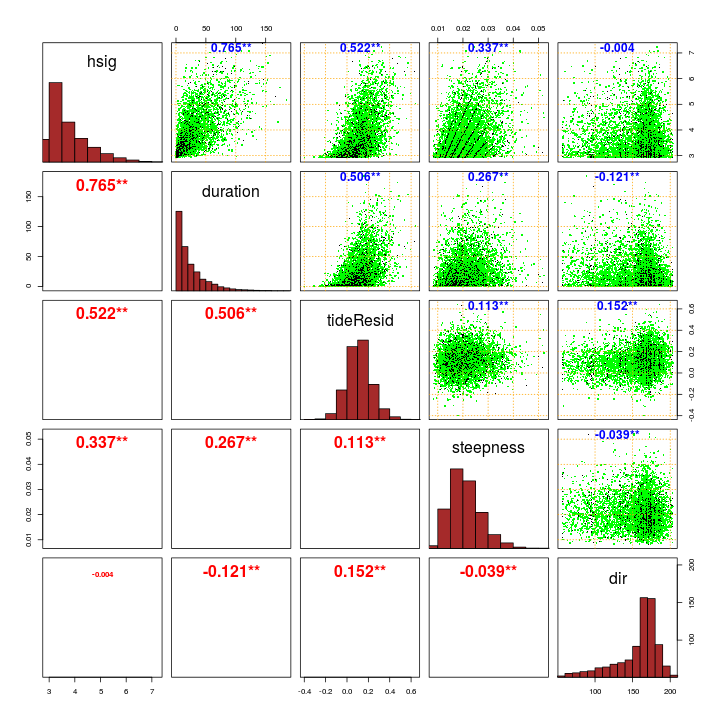
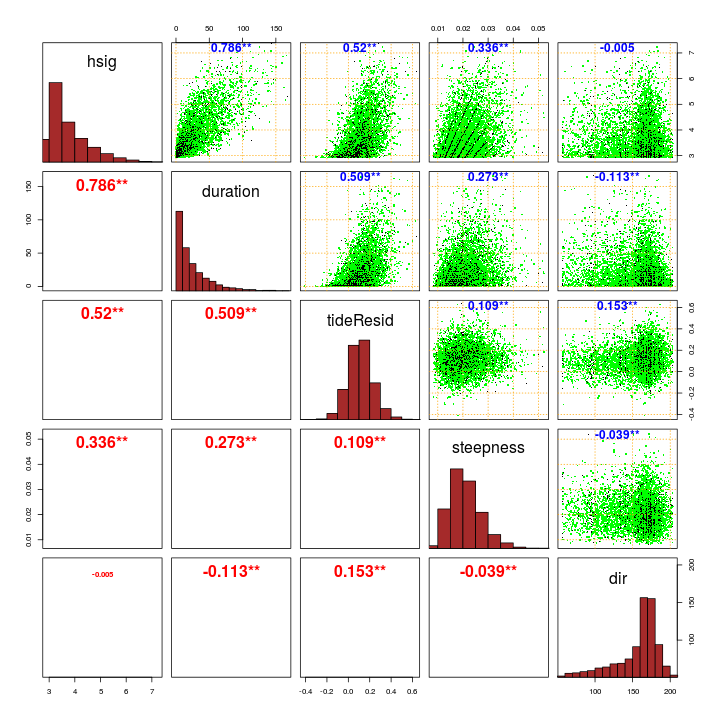
different copula

diff --git a/Analysis/statistical_model_fit/statistical_model_vine_copula.md b/Analysis/statistical_model_fit/statistical_model_vine_copula.md
@@ -58,66 +58,10 @@ perturbations to the data, to check the impact of ties and data discretization.
 # Need to re-load packages, as R does not automatically do this when re-loading
 # a session
 library(evmix)
-```
-
-```
-## Loading required package: MASS
-```
-
-```
-## Loading required package: splines
-```
-
-```
-## Loading required package: gsl
-```
-
-```
-## Loading required package: SparseM
-```
-
-```
-## 
-## Attaching package: 'SparseM'
-```
-
-```
-## The following object is masked from 'package:base':
-## 
-##     backsolve
-```
-
-```r
 library(logspline)
 library(CDVine) # Used to set structure of C-Vine copula
-```
-
-```
-## The CDVine package is no longer developed actively.
-## Please consider using the more general VineCopula package
-## (see https://CRAN.R-project.org/package=VineCopula),
-## which extends and improves the functionality of CDVine.
-```
-
-```r
 library(VineCopula) # Main copula fitting routine. 
-```
 
-```
-## 
-## Attaching package: 'VineCopula'
-```
-
-```
-## The following objects are masked from 'package:CDVine':
-## 
-##     BiCopCDF, BiCopChiPlot, BiCopEst, BiCopHfunc, BiCopIndTest,
-##     BiCopKPlot, BiCopLambda, BiCopMetaContour, BiCopName,
-##     BiCopPar2TailDep, BiCopPar2Tau, BiCopPDF, BiCopSelect,
-##     BiCopSim, BiCopTau2Par, BiCopVuongClarke
-```
-
-```r
 # Here we support multiple runs with random tie-breaking of the data
 # If R was passed a commandline argument 'break_ties n' on startup (with n = integer),
 # then read the n'th R session matching 'Rimages/session_storm_timings_TRUE_*.Rdata'.
@@ -255,11 +199,12 @@ make_Rvine_random_sampler<-function(es_cop_reorder, copula_fit=NULL,
 
             # Codes for all one-parameter copulas, and the t-copula
             one_par_copulas = c(1:6, 13:14, 16, 23:24, 26, 33:34, 36) 
+            simple_copula_families =  1:6 #= all 1 parameter families, without rotations, and t-copula
 
             # Order the variables the same as our input data
             copula_fit = CDVineCopSelect(
                 es_cop_reorder, 
-                familyset=one_par_copulas, # 1:6 = all 1 parameter families, without rotations, and t-copula
+                familyset=simple_copula_families, #one_par_copulas, 
                 type='CVine', 
                 indeptest=TRUE,
                 selectioncrit="AIC")
@@ -305,8 +250,8 @@ copula_model = make_Rvine_random_sampler(es_cop_reorder, plot=TRUE)
 ```
 
 ```
-## iter   10 value -475.478183
-## final  value -475.488607 
+## iter   10 value -469.651792
+## final  value -469.652814 
 ## converged
 ```
 
@@ -321,7 +266,7 @@ print(copula_model$copula_fit_mle)
 
 ```
 ## $value
-## [1] 475.4886
+## [1] 469.6528
 ## 
 ## $convergence
 ## [1] 0
@@ -331,24 +276,24 @@ print(copula_model$copula_fit_mle)
 ## 
 ## $counts
 ## function gradient 
-##       23       23 
+##       19       19 
 ## 
 ## $RVM
 ## C-vine copula with the following pair-copulas:
 ## Tree 1:
 ## 1,5  Independence 
 ## 1,4  Gaussian (par = 0.35, tau = 0.23) 
-## 1,3  Gaussian (par = 0.54, tau = 0.37) 
-## 1,2  Survival Gumbel (par = 2.45, tau = 0.59) 
+## 1,3  Gaussian (par = 0.54, tau = 0.36) 
+## 1,2  Gaussian (par = 0.81, tau = 0.6) 
 ## 
 ## Tree 2:
-## 2,5;1  Frank (par = -1.3, tau = -0.14) 
+## 2,5;1  Frank (par = -1.22, tau = -0.13) 
 ## 2,4;1  Independence 
-## 2,3;1  Gaussian (par = 0.21, tau = 0.14) 
+## 2,3;1  Frank (par = 1.23, tau = 0.13) 
 ## 
 ## Tree 3:
-## 3,5;2,1  Frank (par = 1.55, tau = 0.17) 
-## 3,4;2,1  Frank (par = -0.54, tau = -0.06) 
+## 3,5;2,1  Frank (par = 1.52, tau = 0.16) 
+## 3,4;2,1  Frank (par = -0.55, tau = -0.06) 
 ## 
 ## Tree 4:
 ## 4,5;3,2,1  Independence
